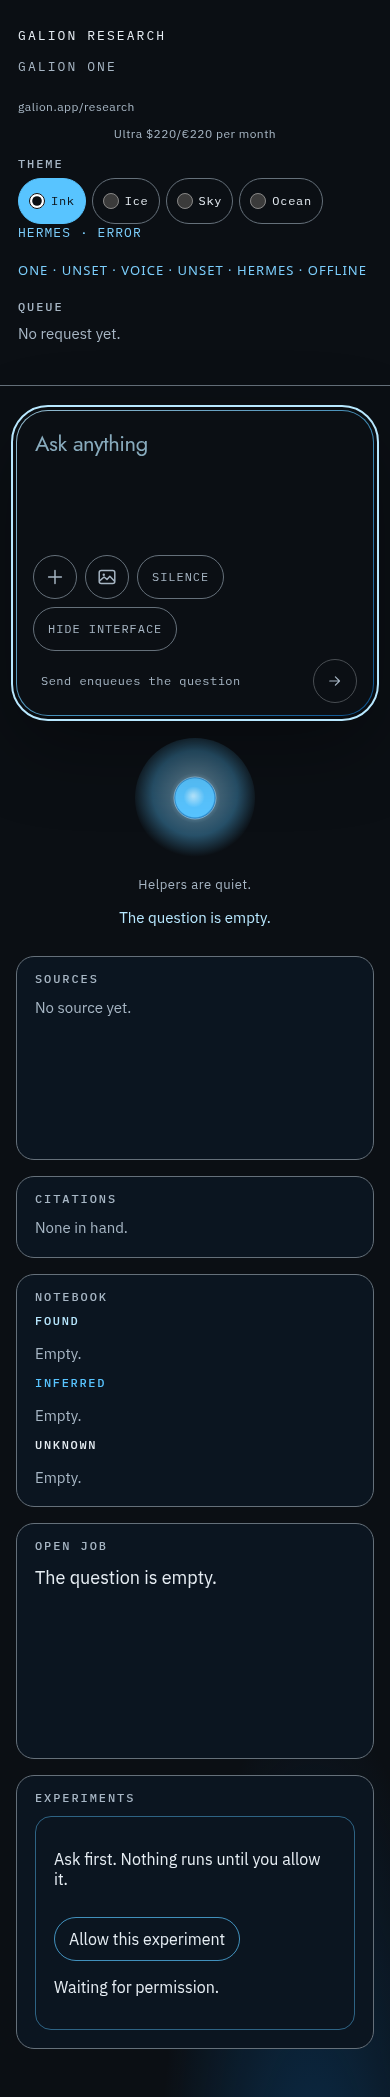
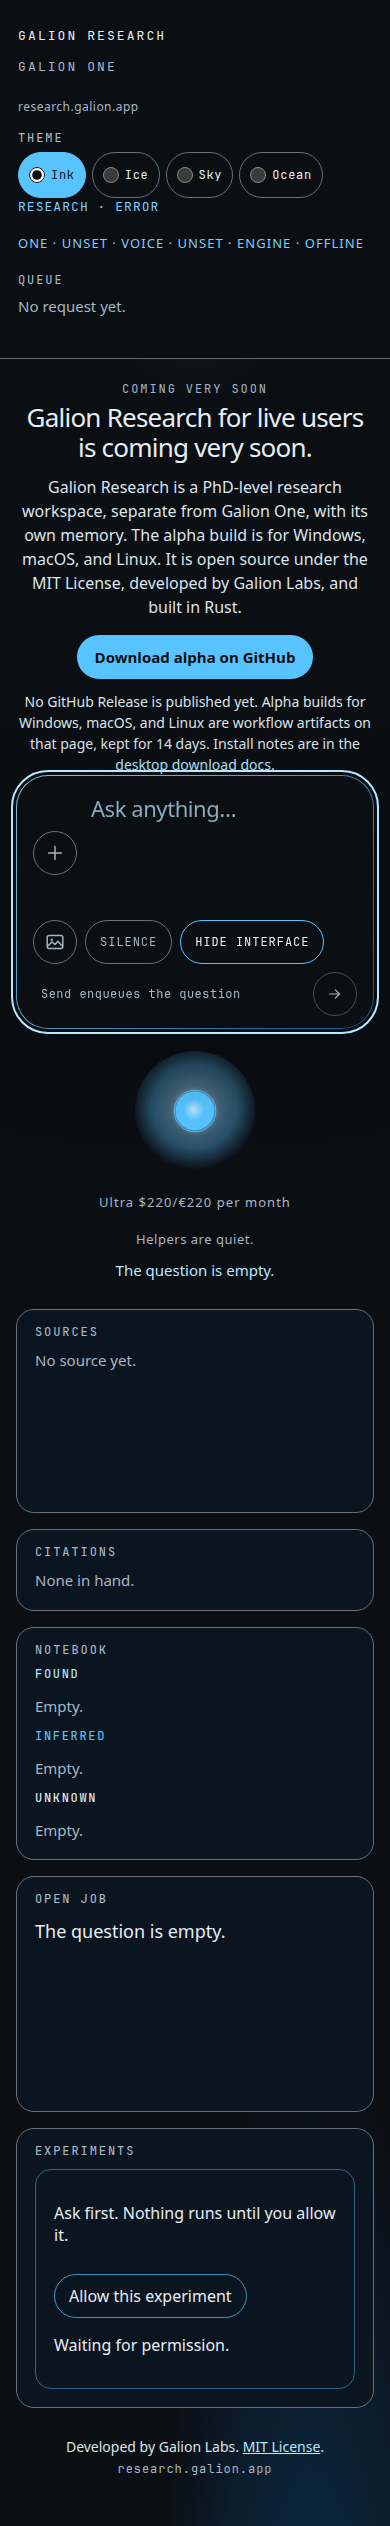
Make this repository the Galion Research web app.
The desk keeps live answering, centres the file plus and voice disc on the prompt, and adds the coming-soon notice for research.galion.app.

diff --git a/public/research.html b/public/research.html
@@ -121,6 +121,24 @@ textarea::placeholder{color:color-mix(in srgb, var(--ice) 72%, var(--ground))}
 #send:hover:not(:disabled){background:radial-gradient(circle at 50% 42%, var(--ice), var(--ice) 46%, var(--sky))}
 #send:disabled{background:transparent;color:var(--quiet);border-color:color-mix(in srgb, var(--ink) 28%, var(--ground));box-shadow:none;cursor:default}
 .price{margin:22px 0 0;text-align:center;font:13px/1.4 var(--om-font-sans);letter-spacing:.08em;color:var(--quiet)}
+.composer{display:grid;grid-template-columns:44px minmax(0,1fr);column-gap:12px;align-items:start}
+.composer textarea{grid-column:2;grid-row:1}
+.composer #add-file{grid-column:1;grid-row:1}
+#add-file{appearance:none;display:grid;place-items:center;width:44px;height:44px;margin:0;padding:0;cursor:pointer;border-radius:999px;border:1px solid var(--line);background:transparent;color:var(--quiet)}
+#add-file:hover,#add-file:focus-visible{border-color:var(--sky);color:var(--ink)}
+#add-file svg{width:22px;height:22px;display:block}
+.hero{width:min(40rem,100%);margin:0 auto;text-align:center}
+.hero-kicker{margin:0 0 8px;font:12px/1 var(--om-font-mono);letter-spacing:.16em;text-transform:uppercase;color:var(--quiet)}
+.hero h2{margin:0;font:500 clamp(26px,3.2vw,40px)/1.15 var(--om-font-display);letter-spacing:-.03em}
+.hero-copy,.hero-note{margin:12px 0 0;font:16px/1.5 var(--om-font-sans);color:color-mix(in srgb, var(--ink) 82%, var(--quiet))}
+.hero-actions{margin:16px 0 0}
+.download{display:inline-flex;align-items:center;justify-content:center;box-sizing:border-box;min-height:44px;padding:0 18px;border-radius:var(--om-radius-pill);background:var(--sky);color:var(--ground);font:600 15px/1.2 var(--om-font-sans);text-decoration:none}
+.download:hover{background:var(--ice)}
+.hero-note{font-size:14px}
+.hero-note a,.site-foot a{color:var(--ice)}
+.site-foot{width:min(40rem,100%);margin:28px auto 0;text-align:center;font:14px/1.5 var(--om-font-sans);color:color-mix(in srgb, var(--ink) 82%, var(--quiet))}
+.site-foot p{margin:0}
+.site-foot .domain{margin-top:4px;font:12px/1.4 var(--om-font-mono);letter-spacing:.08em;text-transform:lowercase;color:var(--quiet)}
 .app{display:grid;grid-template-columns:248px minmax(0,1fr);min-height:100vh}
 #rail{padding:28px 18px 40px;border-right:1px solid var(--line);background:var(--ground)}
 #rail .brand{margin:0;font:13px/1.3 var(--om-font-mono);letter-spacing:.16em;text-transform:uppercase}
@@ -177,7 +195,7 @@ body[data-ui="minimal"] .work,
 body[data-ui="minimal"] #add-image,
 body[data-ui="minimal"] #commit-hint{display:none}
 body[data-ui="minimal"] .app{display:block}
-body[data-ui="minimal"] .stage{display:flex;flex-direction:column;align-items:center;justify-content:center;min-height:100vh;width:min(880px,calc(100vw - 80px));margin:0 auto;padding:0;gap:18px}
+body[data-ui="minimal"] .stage{display:flex;flex-direction:column;align-items:center;justify-content:safe center;min-height:100vh;min-height:100dvh;width:min(880px,calc(100vw - 80px));margin:0 auto;padding:28px 0 36px;gap:18px;box-sizing:border-box}
 body[data-ui="minimal"] .ask{width:100%}
 body[data-ui="minimal"] #helpers,
 body[data-ui="minimal"] #state-line,
@@ -264,8 +282,7 @@ body[data-theme="ocean"]{
 <aside id="rail" aria-label="Research">
   <p class="brand">Galion Research</p>
   <a id="to-one" href="/one">Galion One</a>
-  <p class="where">galion.app/research</p>
-  <p class="price">Ultra $220/€220 per month</p>
+  <p class="where">research.galion.app</p>
   <fieldset class="themes">
     <legend>Theme</legend>
     <label><input type="radio" name="theme" value="ink" checked><span>Ink</span></label>
@@ -274,7 +291,7 @@ body[data-theme="ocean"]{
     <label><input type="radio" name="theme" value="ocean"><span>Ocean</span></label>
   </fieldset>
   <p id="theme-live" class="sr" aria-live="polite"></p>
-  <p id="hermes-status" data-app="hermes" aria-live="polite">Hermes</p>
+  <p id="hermes-status" data-app="hermes" aria-live="polite">Research</p>
   <section id="history" aria-labelledby="history-label">
     <h2 id="history-label">Queue</h2>
     <ol id="history-list"></ol>
@@ -282,23 +299,32 @@ body[data-theme="ocean"]{
   </section>
 </aside>
 <main class="stage">
+  <section class="hero" aria-labelledby="hero-title">
+    <p class="hero-kicker">Coming very soon</p>
+    <h2 id="hero-title">Galion Research for live users is coming very soon.</h2>
+    <p class="hero-copy">Galion Research is a PhD-level research workspace, separate from Galion One, with its own memory. The alpha build is for Windows, macOS, and Linux. It is open source under the MIT License, developed by Galion Labs, and built in Rust.</p>
+    <p class="hero-actions"><a class="download" id="download-alpha" href="https://github.com/galion-studio/obsidian-open-mind/actions/workflows/openmind-desktop.yml">Download alpha on GitHub</a></p>
+    <p class="hero-note">No GitHub Release is published yet. Alpha builds for Windows, macOS, and Linux are workflow artifacts on that page, kept for 14 days. Install notes are in the <a href="https://github.com/galion-studio/obsidian-open-mind/blob/main/docs/desktop/README.md">desktop download docs</a>.</p>
+  </section>
   <header id="first-run">
     <p class="kicker">Galion Research</p>
     <h1>What are we looking into?</h1>
     <p id="first-run-line">A question starts here.</p>
   </header>
-  <p id="state-line" data-app="hermes">Hermes</p>
-  <p class="sr" id="product-line">Galion Research is the Hermes research app, a voice of Galion One. Voice to voice is on.</p>
+  <p id="state-line" data-app="hermes">Research</p>
+  <p class="sr" id="product-line">Galion Research is a PhD-level research workspace, separate from Galion One, with its own memory. Voice to voice is on.</p>
   <p class="sr" id="research-voice">Galion Research. What are we looking into?</p>
-  <p class="sr" id="voice-name">Research · Hermes</p>
+  <p class="sr" id="voice-name">Galion Research</p>
   <form class="ask" id="ask" action="#" method="post">
     <div class="field">
       <label class="sr" for="prompt">Ask</label>
-      <textarea id="prompt" name="prompt" rows="4" placeholder="Ask anything" autocomplete="off" enterkeyhint="send" aria-describedby="ask-hint"></textarea>
-      <div class="tools">
+      <div class="composer">
+        <textarea id="prompt" name="prompt" rows="4" placeholder="Ask anything…" autocomplete="off" enterkeyhint="send" aria-describedby="ask-hint"></textarea>
         <button type="button" id="add-file" aria-label="Add files">
           <svg viewBox="0 0 24 24" aria-hidden="true"><path d="M12 5v14M5 12h14" fill="none" stroke="currentColor" stroke-width="1.6" stroke-linecap="round"/></svg>
         </button>
+      </div>
+      <div class="tools">
         <button type="button" id="add-image" aria-label="Add an image">
           <svg viewBox="0 0 24 24" aria-hidden="true"><rect x="3.5" y="5" width="17" height="14" rx="2.2" fill="none" stroke="currentColor" stroke-width="1.6"/><circle cx="8.5" cy="9.5" r="1.3" fill="currentColor"/><path d="M4 16.2 8.8 12l3.2 2.6 3.1-3.4L20 16.4" fill="none" stroke="currentColor" stroke-width="1.6" stroke-linejoin="round" stroke-linecap="round"/></svg>
         </button>
@@ -317,6 +343,7 @@ body[data-theme="ocean"]{
       <canvas id="voice-dot" width="240" height="240" aria-hidden="true"></canvas>
     </button>
   </form>
+  <p class="price" id="price">Ultra $220/€220 per month</p>
   <p id="helpers" hidden aria-live="polite">Helpers are quiet.</p>
   <p id="loading" role="status" hidden>Reading the question.</p>
   <p id="error" role="alert" hidden></p>
@@ -370,6 +397,10 @@ body[data-theme="ocean"]{
       </article>
     </section>
   </div>
+  <footer class="site-foot">
+    <p>Developed by Galion Labs. <a href="https://github.com/galion-studio/hermes-research/blob/main/LICENSE">MIT License</a>.</p>
+    <p class="domain">research.galion.app</p>
+  </footer>
 </main>
 </div>
 <script>
@@ -551,7 +582,7 @@ function tone(id){
     prompt.setAttribute("aria-invalid","true");
     prompt.setAttribute("aria-errormessage","error");
     document.body.setAttribute("data-state","error");
-    hermesStatus("Hermes · Error");
+    hermesStatus("Research · Error");
     helpers.hidden=false;
     helpers.textContent="Helpers are quiet.";
     fillList(document.getElementById("arriving-list"), []);
@@ -568,7 +599,7 @@ function tone(id){
   function carryOffline(q){
     clearError();
     document.body.setAttribute("data-state","offline");
-    hermesStatus("Hermes · Offline");
+    hermesStatus("Research · Offline");
     helpers.hidden=false;
     helpers.textContent="Helpers are quiet. Local knowledge carries the question.";
     document.getElementById("reading-question").textContent=q;
@@ -628,7 +659,7 @@ function tone(id){
     var offline=isOffline(j);
     if(offline && !Array.isArray(j.sources)) markLocalSources();
     document.body.setAttribute("data-state", offline?"offline":"ready");
-    hermesStatus("Hermes · "+(j.status||"Returned"));
+    hermesStatus("Research · "+(j.status||"Returned"));
     helpers.hidden=false;
     helpers.textContent=offline?"Helpers are quiet. Local knowledge carries the question.":(j.helpers||"Helpers are quiet.");
     tone(offline?"local":"returned");
@@ -652,9 +683,9 @@ function tone(id){
   var turnStarted=false;
   fetch("/research/hermes",{cache:"no-store"}).then(function(r){ return r.ok?r.json():null; }).then(function(j){
     if(turnStarted) return;
-    if(!j){ hermesStatus("Hermes · Offline"); return; }
-    hermesStatus("Hermes · "+(j.status||"Idle"));
-  }).catch(function(){ if(!turnStarted) hermesStatus("Hermes · Offline"); });
+    if(!j){ hermesStatus("Research · Offline"); return; }
+    hermesStatus("Research · "+(j.status||"Idle"));
+  }).catch(function(){ if(!turnStarted) hermesStatus("Research · Offline"); });
   fetch("/research/history",{cache:"no-store"}).then(function(r){ return r.ok?r.json():null; }).then(function(j){
     if(turnStarted||!j) return;
     if(Array.isArray(j.items)) paintHistory(j.items);
@@ -725,7 +756,7 @@ function tone(id){
     if(Array.from(q).length>QUESTION_LIMIT){ showError("The question is longer than 2000 characters."); return; }
     clearError();
     setBusy(true);
-    hermesStatus("Hermes · Running");
+    hermesStatus("Research · Running");
     helpers.hidden=false;
     helpers.textContent="Helpers: reading, sources, notebook.";
     fillList(document.getElementById("arriving-list"), [q]);

diff --git a/e2e/research.spec.js b/e2e/research.spec.js
@@ -127,12 +127,21 @@ test("desktop opens on the bare field", async ({ page }) => {
   await expect(page).toHaveTitle("Galion Research");
   await expect(page.locator("body")).toHaveAttribute("data-ui", "minimal");
   await expect(page.locator("body")).toHaveAttribute("data-silence", "off");
-  await expect(page.locator("#prompt")).toHaveAttribute("placeholder", "Ask anything");
+  await expect(page.locator("#prompt")).toHaveAttribute("placeholder", "Ask anything…");
   await expect(page.locator("#rail")).toBeHidden();
   await expect(page.locator("#work")).toBeHidden();
   await expect(page.locator("#add-image")).toBeHidden();
   await expect(page.locator("#commit-hint")).toBeHidden();
   await expect(page.getByRole("heading", { name: "What are we looking into?" })).toBeVisible();
+  await expect(page.getByRole("heading", { name: "Galion Research for live users is coming very soon." })).toBeVisible();
+  await expect(page.locator("#download-alpha")).toHaveAttribute(
+    "href",
+    "https://github.com/galion-studio/obsidian-open-mind/actions/workflows/openmind-desktop.yml",
+  );
+  await expect(page.getByRole("link", { name: "Download alpha on GitHub" })).toBeVisible();
+  await expect(page.locator(".site-foot")).toContainText("Developed by Galion Labs");
+  await expect(page.getByRole("link", { name: "MIT License" })).toBeVisible();
+  await expect(page.locator("#price")).toHaveText("Ultra $220/€220 per month");
   await expect(page.locator("#first-run-line")).toHaveText("A question starts here.");
   await expect(page.locator("#state-line")).toBeHidden();
   await expect(page.getByRole("button", { name: "Voice" })).toBeVisible();
@@ -143,6 +152,9 @@ test("desktop opens on the bare field", async ({ page }) => {
 
   const field = await page.locator(".field").boundingBox();
   const voice = await page.locator("#voice").boundingBox();
+  const plus = await page.locator("#add-file").boundingBox();
+  const prompt = await page.locator("#prompt").boundingBox();
+  expect(plus.x + plus.width).toBeLessThanOrEqual(prompt.x + 8);
   expect(voice.x).toBeGreaterThan(field.x + field.width - 8);
   expect(voice.width).toBeGreaterThan(80);
 
@@ -188,8 +200,12 @@ test("phone keeps the field, the disc, and the file plus", async ({ page }) => {
   await expect(page.locator("#add-file")).toBeVisible();
   const field = await page.locator(".field").boundingBox();
   const voice = await page.locator("#voice").boundingBox();
+  const plus = await page.locator("#add-file").boundingBox();
+  const prompt = await page.locator("#prompt").boundingBox();
   expect(field.width).toBeGreaterThan(280);
+  expect(plus.x + plus.width).toBeLessThanOrEqual(prompt.x + 8);
   expect(voice.y).toBeGreaterThan(field.y + field.height - 4);
+  await expect(page.getByRole("link", { name: "Download alpha on GitHub" })).toBeVisible();
   await saveShot(page, "research-minimal-phone.png");
 
   await page.getByRole("button", { name: "Show interface" }).click();
@@ -384,7 +400,7 @@ test("a late status read does not relabel an empty question", async ({ page }) =
   release();
   await page.waitForResponse("**/research/hermes");
   await expect(page.locator("body")).toHaveAttribute("data-state", "error");
-  await expect(page.locator("#hermes-status")).toHaveText("Hermes · Error");
+  await expect(page.locator("#hermes-status")).toHaveText("Research · Error");
 });
 
 test("a late history read does not wipe an offline answer", async ({ page }) => {
@@ -505,7 +521,7 @@ test("a question in flight shows loading, then the offline answer", async ({ pag
   await expect(page.locator("body")).toHaveAttribute("data-state", "loading");
   await expect(page.locator("#loading")).toHaveText("Reading the question.");
   await expect(page.locator("#answer")).toHaveAttribute("aria-busy", "true");
-  await expect(page.locator("#hermes-status")).toHaveText("Hermes · Running");
+  await expect(page.locator("#hermes-status")).toHaveText("Research · Running");
   await expect(page.locator("#error")).toBeHidden();
   await expect(page.locator("#helpers")).toHaveText("Helpers: reading, sources, notebook.");
   const loading = await seriousViolations(page);
@@ -533,7 +549,7 @@ test("an empty question is an error on the phone and the desktop", async ({ page
     await expect(page.locator("#prompt")).toHaveAttribute("aria-invalid", "true");
     await expect(page.locator("#prompt")).toHaveAttribute("aria-errormessage", "error");
     await expect(page.locator("#loading")).toBeHidden();
-    await expect(page.locator("#hermes-status")).toHaveText("Hermes · Error");
+    await expect(page.locator("#hermes-status")).toHaveText("Research · Error");
     const violations = await seriousViolations(page);
     expect(violations).toEqual([]);
     await saveShot(page, name, { fullPage: true });

diff --git a/src/forward.js b/src/forward.js
@@ -282,10 +282,10 @@ const WIRE_STYLE =
   "#wire-status{margin:0 0 18px;font:13px/1.4 system-ui,sans-serif;letter-spacing:.08em;text-transform:uppercase;color:color-mix(in srgb, var(--amber) 75%, var(--ink))}";
 
 const WIRE_NODE =
-  '<p id="wire-status" data-wire="openmind voice" aria-live="polite">One · unset · Voice · unset · Hermes · offline</p>';
+  '<p id="wire-status" data-wire="openmind voice" aria-live="polite">One · unset · Voice · unset · Engine · offline</p>';
 
 const WIRE_SCRIPT =
-  'fetch("/research/wire",{cache:"no-store"}).then(function(r){return r.ok?r.json():null;}).then(function(j){var el=document.getElementById("wire-status");if(!el)return;var u=j&&j.upstreams||{};var o=u.openmind&&u.openmind.state||"unset";var v=u.voice&&u.voice.state||"unset";var h=j&&j.hermes&&j.hermes.state||"offline";el.textContent="One · "+o+" · Voice · "+v+" · Hermes · "+h;}).catch(function(){var el=document.getElementById("wire-status");if(el)el.textContent="One · down · Voice · down · Hermes · offline";});';
+  'fetch("/research/wire",{cache:"no-store"}).then(function(r){return r.ok?r.json():null;}).then(function(j){var el=document.getElementById("wire-status");if(!el)return;var u=j&&j.upstreams||{};var o=u.openmind&&u.openmind.state||"unset";var v=u.voice&&u.voice.state||"unset";var h=j&&j.hermes&&j.hermes.state||"offline";el.textContent="One · "+o+" · Voice · "+v+" · Engine · "+h;}).catch(function(){var el=document.getElementById("wire-status");if(el)el.textContent="One · down · Voice · down · Engine · offline";});';
 
 export function withWireIndicator(html) {
   let text = Buffer.isBuffer(html) ? html.toString("utf8") : String(html);

diff --git a/test/research.test.js b/test/research.test.js
@@ -57,7 +57,7 @@ describe("page", () => {
       'data-voice="galion-research"',
       'data-voice-to-voice="on"',
       'data-handoff="voice"',
-      'placeholder="Ask anything"',
+      'placeholder="Ask anything…"',
       "Galion Research. What are we looking into?",
       'id="first-run"',
       "<h1>What are we looking into?</h1>",
@@ -77,7 +77,7 @@ describe("page", () => {
       'getAttribute("data-silence")==="on"',
       'aria-expanded="false"',
       'id="work"',
-      "Galion Research is the Hermes research app, a voice of Galion One",
+      "Galion Research is a PhD-level research workspace, separate from Galion One, with its own memory",
       'id="add-file"',
       'id="add-image"',
       'id="file-names"',
@@ -100,11 +100,17 @@ describe("page", () => {
       'id="error"',
       'id="state-line"',
       'role="alert"',
-      "Hermes · Offline",
+      "Research · Offline",
       "The question is empty.",
       "The question is longer than 2000 characters.",
       "What is already known stays marked local.",
-      "galion.app/research",
+      "research.galion.app",
+      "Galion Research for live users is coming very soon.",
+      "Download alpha on GitHub",
+      "https://github.com/galion-studio/obsidian-open-mind/actions/workflows/openmind-desktop.yml",
+      "No GitHub Release is published yet.",
+      "Developed by Galion Labs.",
+      "MIT License",
       "Ultra $220/€220 per month",
       'href="/one"',
       "#0B0F14",

diff --git a/src/hermes.js b/src/hermes.js
@@ -22,7 +22,7 @@ export const DEFAULT_TIMEOUT_MS = 3_000;
 export const MAX_TIMEOUT_MS = 95_000;
 
 export const RESEARCH_PROMPT =
-  'You are Galion Research, the research app on Hermes, a voice of Galion One. Answer the question first, then the limit. Separate found, inferred, and unknown. Use the web, browser, and arXiv tools when they are available. Cite only a URL those tools returned, or a source that was handed to you. One citation per line, starting with [1], then the title and the URL. If no tool returned a URL and nothing was handed to you, say "I don\'t have a source for that." Do not invent a paper, a URL, a date, or a measurement. English only.';
+  'You are Galion Research, a PhD-level research workspace separate from Galion One, with its own memory. Answer the question first, then the limit. Separate found, inferred, and unknown. Use the web, browser, and arXiv tools when they are available. Cite only a URL those tools returned, or a source that was handed to you. One citation per line, starting with [1], then the title and the URL. If no tool returned a URL and nothing was handed to you, say "I don\'t have a source for that." Do not invent a paper, a URL, a date, or a measurement. Do not call this workspace by any other product name. English only.';
 
 export const FORBIDDEN = Object.freeze([
   "i hear you",

diff --git a/src/local.js b/src/local.js
@@ -10,11 +10,11 @@ const FACTS = [
   {
     when: (q) =>
       /who are you|what are you|your name|galion research|what are we looking into/.test(q),
-    say: "Galion Research. What are we looking into? Galion Research is a voice of Galion One. Hermes is the research agent behind this desk.",
+    say: "Galion Research. What are we looking into? Galion Research is a PhD-level research workspace, separate from Galion One, with its own memory. Developed by Galion Labs. Built in Rust. Open source under the MIT License.",
   },
   {
     when: (q) => /galion one/.test(q),
-    say: "Galion One is the product. Galion Research is a voice inside it, and this workspace. It connects to Galion One. It is not a copy of it.",
+    say: "Galion One and Galion Research are different products. Galion Research is a PhD-level research workspace with its own memory. This desk can hand a voice across to Galion One. It is not a copy of the One page.",
   },
   {
     when: (q) => /ultra|per month|what does it cost|price/.test(q),
@@ -34,7 +34,7 @@ const FACTS = [
   },
   {
     when: (q) => /hermes|gateway key|api key/.test(q),
-    say: "Hermes is the research agent. The gateway key stays in the server environment.",
+    say: "The research engine runs on this machine. The gateway key stays in the server environment.",
   },
 ];
 

diff --git a/test/unit/headers.test.js b/test/unit/headers.test.js
@@ -36,6 +36,8 @@ describe("post origin", () => {
     assert.equal(postOriginAllowed({ host: "127.0.0.1:8787", origin: "http://127.0.0.1:8787" }), true);
     assert.equal(postOriginAllowed({ host: "127.0.0.1:8787", origin: "https://galion.app" }), true);
     assert.equal(postOriginAllowed({ host: "galion.app", origin: "https://www.galion.app" }), true);
+    assert.equal(postOriginAllowed({ host: "research.galion.app", origin: "https://research.galion.app" }), true);
+    assert.equal(postOriginAllowed({ host: "127.0.0.1:8787", origin: "https://research.galion.app" }), true);
     assert.equal(postOriginAllowed({ host: "127.0.0.1:8787", origin: "http://127.0.0.1:9999" }), false);
     assert.equal(postOriginAllowed({ host: "galion.app", origin: "https://evil.example" }), false);
     assert.equal(postOriginAllowed({ host: "galion.app", origin: "null" }), false);

diff --git a/src/headers.js b/src/headers.js
@@ -5,7 +5,11 @@ import { randomBytes } from "node:crypto";
 
 import { isLoopback } from "./hermes.js";
 
-const PUBLIC_ORIGINS = new Set(["https://galion.app", "https://www.galion.app"]);
+const PUBLIC_ORIGINS = new Set([
+  "https://galion.app",
+  "https://www.galion.app",
+  "https://research.galion.app",
+]);
 
 function oneHeader(headers, name) {
   if (!headers || typeof headers !== "object") return "";

diff --git a/README.md b/README.md
@@ -1,8 +1,8 @@
 # Galion Research
 
-Galion One is the product. Galion Research is a voice inside it, and this workspace. It connects to Galion One. It is not a copy of the One page.
+Galion Research is a PhD-level research workspace, separate from Galion One, with its own memory. This repository is the Galion Research web app for `research.galion.app`. It can hand a voice across to Galion One. It is not a copy of the One page.
 
-The desk is the page already live at [galion.app/research](https://galion.app/research), from [galion-studio/galion-one-voice#128](https://github.com/galion-studio/galion-one-voice/pull/128). Ink `#0B0F14`, Ice `#B8E8FF`, Sky `#58C4FF`, Ocean `#0B5FA5`. The field says Ask anything. Beside it, a voice disc and a file plus. Show interface opens Sources, Citations, the Notebook (Found, Inferred, Unknown), and an experiment card that asks before anything runs. Hide interface returns to the bare field.
+The desk uses Ink `#0B0F14`, Ice `#B8E8FF`, Sky `#58C4FF`, Ocean `#0B5FA5`. The field says Ask anything…. The file plus sits on the left of that field and the voice disc sits on the right. Show interface opens Sources, Citations, the Notebook (Found, Inferred, Unknown), and an experiment card that asks before anything runs. Hide interface returns to the bare field. The page says Galion Research for live users is coming very soon, and links to the desktop alpha workflow because no GitHub Release is published yet.
 
 The voice is: Galion Research. What are we looking into? The handoff from Galion One is voice-only. No letter is drawn on the disc. The disc is Ice, Sky, and Ocean.
 
@@ -10,7 +10,7 @@ The rail offers four themes: Ink, Ice, Sky, and Ocean. Ink is the one the desk o
 
 Ultra is $220/€220 per month. That line is copy, not a checkout.
 
-Hermes is the research agent. This process does not ship a voice model, a clone, or an audio file. Research cues are 432 Hz just-intonation ratios in `src/cues.js` and on the page. Definitions only. Silence, and `?silence=1`, keeps those cues quiet. The Silence control sits on the field. Typing in the field does not toggle it. `s` does, when focus is outside the field.
+The research engine runs on this machine. Its crates are still named hermes-rs and hermes-gateway. This process does not ship a voice model, a clone, or an audio file. Research cues are 432 Hz just-intonation ratios in `src/cues.js` and on the page. Definitions only. Silence, and `?silence=1`, keeps those cues quiet. The Silence control sits on the field. Typing in the field does not toggle it. `s` does, when focus is outside the field.
 
 The 7 October 2026 notes are kept in [docs/archive](docs/archive/).
 
@@ -45,9 +45,9 @@ The JSON shape is `galion-research/1`: `status`, `reply`, `citations` as `{ "n",
 
 `GET /one` redirects to Galion One (`GALION_ONE_URL`, default `https://galion.app/one`). That is the product link. This repo does not draw the One dot.
 
-### Hermes
+### Research engine
 
-When `GALION_RESEARCH_URL` is unset, or that origin cannot be reached, Hermes is the engine on this machine.
+When `GALION_RESEARCH_URL` is unset, or that origin cannot be reached, the research engine on this machine answers. The engine crates and the variables below still use the historical name.
 
 | Variable | Role |
 | --- | --- |
@@ -128,7 +128,9 @@ On the laptop, `scripts/laptop-ci/research-e2e.ps1` (installed as `G:\galion\ci\
 
 ## Deploy kit
 
-The desk is not deployed. The kit in this repo is the hardened unit, the env example, the health check, and the release layout. See [docs/DEPLOY.md](docs/DEPLOY.md). The scripts refuse `--execute`. Nothing in this repository connects to a host.
+The desk is not deployed. The kit in this repo is the hardened unit, the env example, the health check, and the release layout. See [docs/DEPLOY.md](docs/DEPLOY.md). The scripts refuse `--execute`. Nothing in this repository connects to a host, and nothing here changes DNS.
+
+To serve this app at `research.galion.app`, a person adds a DNS record for that name to the same front that already reaches the machine, then points that host at this process on loopback port 8787. Same-origin posts on `https://research.galion.app` are already allowed. This repository does not make that DNS change and does not edit the front.
 
 The Pi 5 seed is a single executable of this same desk for `linux-arm64` and `linux-x64`. The workflow that builds it smoke-starts the arm64 binary under qemu-user. It does not boot a Raspberry Pi. See [docs/PI5-SEED.md](docs/PI5-SEED.md).
 

diff --git a/docs/FORWARD.md b/docs/FORWARD.md
@@ -39,7 +39,7 @@ No `Authorization` header is added on these forwards. The Hermes key is not copi
 
 `GET /health` answers `{"ok":true,"service":"galion-research","bind":"127.0.0.1"}`. It is read-only: no cookie, no rate-limit count, and no upstream. A browser page on loopback `http`, including the name `localhost`, may read it. Any other origin is not copied into the response. An OS status page on the desktop's loopback listener can call this probe.
 
-`GET /research/wire` is the indicator. The served desk page shows it as `One · … · Voice · … · Hermes · …` beside the Hermes line. The static file `public/research.html` is not edited; the line is added when the page is served.
+`GET /research/wire` is the indicator. The served desk page shows it as `One · … · Voice · … · Engine · …` beside the research status line. The static file `public/research.html` is not edited; the line is added when the page is served.
 
 States:
 
